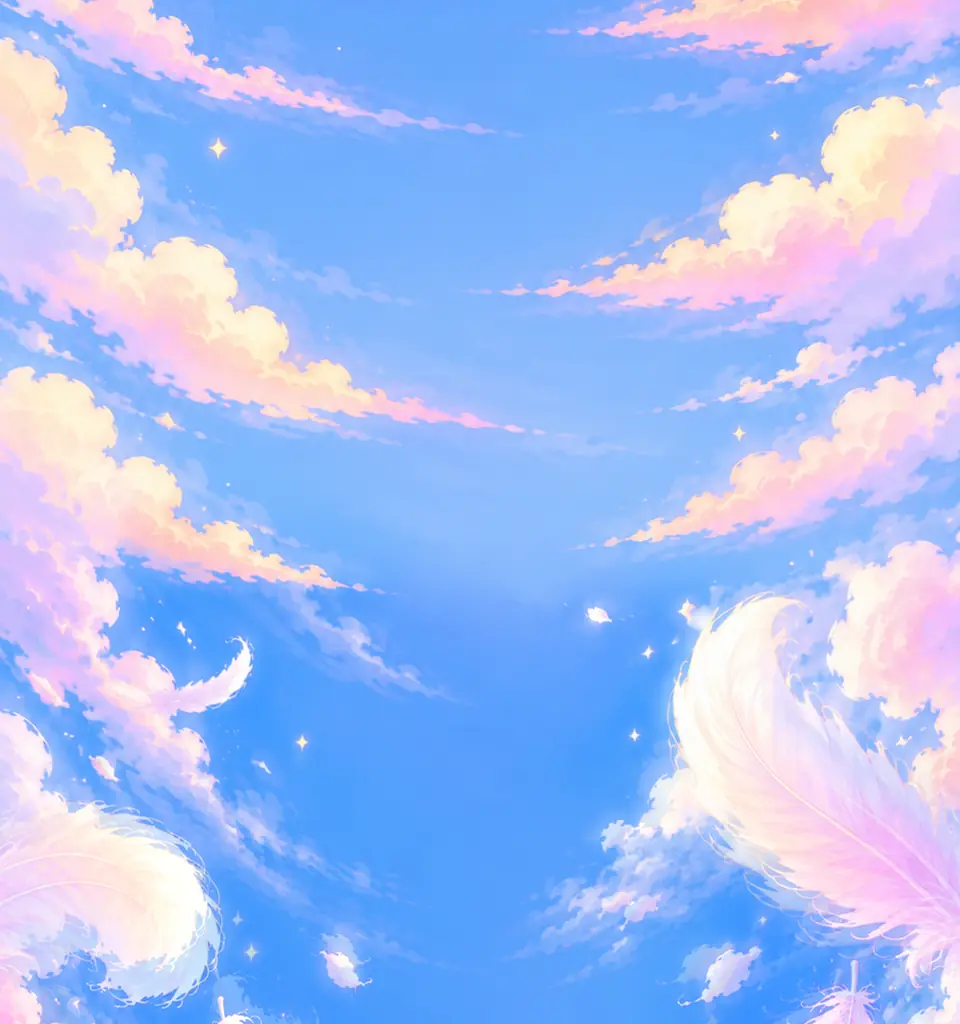
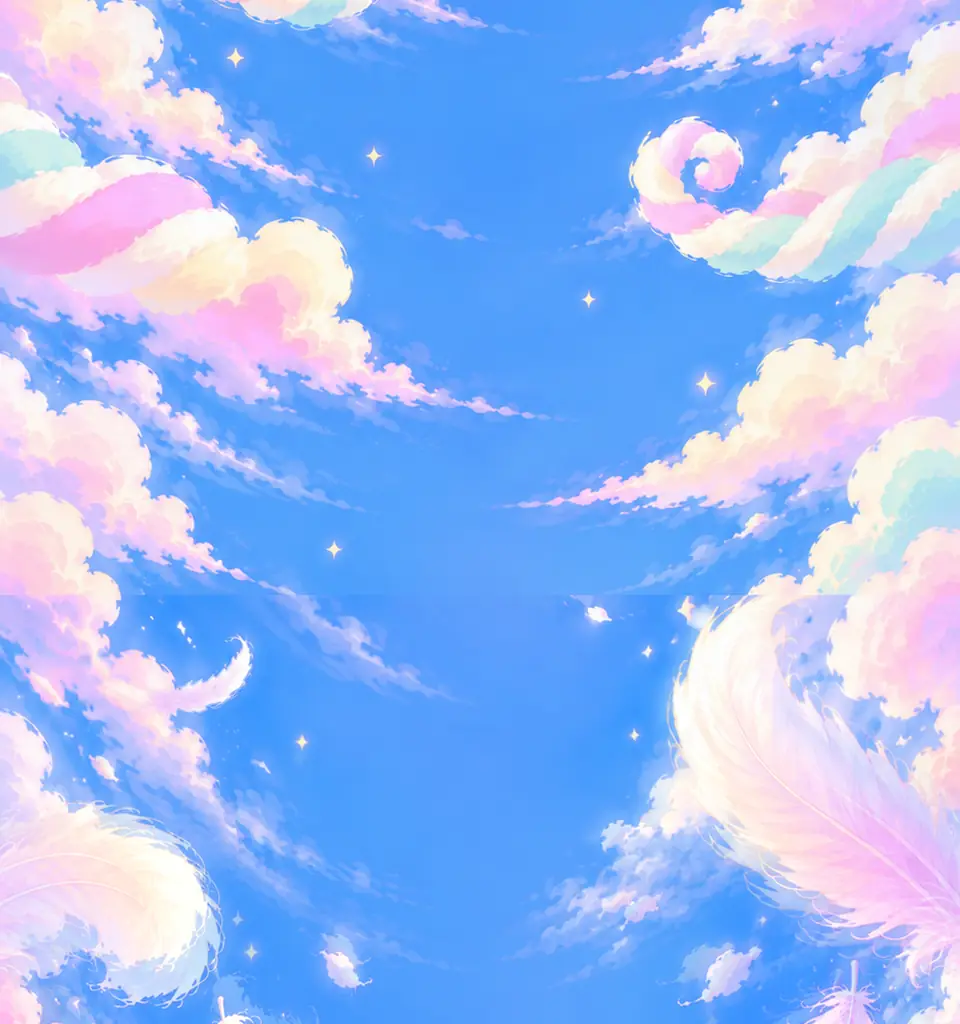
v0.9.196 구름 줄무늬 스테이지 다시 — 사탕 줄무늬 구름·줄무늬 열기구

diff --git a/index.html b/index.html
@@ -2409,7 +2409,7 @@
   const elTitle = document.getElementById("overTitle");
   const coinNote = document.getElementById("coinNote");
 
-  const GAME_VERSION = "v0.9.195";
+  const GAME_VERSION = "v0.9.196";
   /* 제작사 스플래시(bamhobak friends 로고) — 2026-09-20 끔. 다시 켜려면 true */
   const SPLASH_USE = false;   // 코드를 고칠 때마다 뒤 두 자리를 올린다
   document.getElementById("ver").textContent = GAME_VERSION;
@@ -3407,7 +3407,7 @@
   /* v0.9.138 한 장처럼 이어지는 긴 배경 — 꽃밭부터 똥대장네 집까지 스테이지마다 한 칸씩 이어 그린 그림(Codex, tools/gen_long.py)을
      tools/build_long.py 가 아래부터 LONG_CH px 조각(assets/bg/long/cNN.webp)으로 잘라 둔다. 스테이지 k 의 한가운데 시각(k-0.5)에
      화면 가운데가 LONG_ANCH[k-1](아래에서 잰 px)에 오도록 레벨 시계를 따라 쭉 내려온다 — 지대마다 그림을 겹쳐 녹이던 방식은 뺐다. */
-  /*LONG-BEGIN*/ const LONG_H = 23409, LONG_CH = 1024, LONG_N = 23, LONG_V = 18294, LONG_ANCH = [850, 2130, 3410, 4690, 5970, 7250, 8500, 9756, 11036, 12316, 13596, 14876, 16156, 17436, 18716, 19999, 21279, 22559]; /*LONG-END*/
+  /*LONG-BEGIN*/ const LONG_H = 23409, LONG_CH = 1024, LONG_N = 23, LONG_V = 25238, LONG_ANCH = [850, 2130, 3410, 4690, 5970, 7250, 8500, 9756, 11036, 12316, 13596, 14876, 16156, 17436, 18716, 19999, 21279, 22559]; /*LONG-END*/
   const LONG_IMG = [];
   function longLoad(i) {
     if (i < 0 || i >= LONG_N || LONG_IMG[i] !== undefined) return;

diff --git a/tools/gen_long.py b/tools/gen_long.py
@@ -49,8 +49,10 @@ STAGE = {
      "ABSOLUTELY NO lollipops, NO swirl candies, NO hard candies, NO candy canes, NO waterfalls, NO islands.",
   4: "STAGE 'Feather Sky': a brighter, higher sky where giant soft white and pastel FEATHERS float and drift gently "
      "like slow boats, some fluffy downy feathers swirling at the edges, tiny wisps of cloud, a light airy mood.",
-  5: "STAGE 'Cloud Stripes': the sky deepens to a richer blue and the clouds become long neat horizontal STRIPES of "
-     "soft pastel cloud bands (pink, peach, white) stretching in from the edges like ribbons, a few tiny stars begin.",
+  5: "STAGE 'Cloud Stripes' (구름 줄무늬): a whimsical sky where the fluffy clouds are painted with bold cheerful candy STRIPES — "
+     "pink-and-white, mint-and-white and lemon-and-white striped clouds like striped socks and candy canes, some long "
+     "striped cloud ribbons waving in from the sides, and two or three cute striped hot-air balloons (pastel stripes) "
+     "floating at the edges. Bright, playful and clearly different from plain clouds.",
   6: "STAGE 'Sparkle Ripples': high in a deep blue-to-navy sky, shimmering SPARKLY RIPPLE waves of light flow in from "
      "the sides like a gentle glittering sea surface in the air, little twinkling sparkles, first real stars.",
   7: "STAGE 'Aurora Curtain': night sky; big soft flowing AURORA CURTAINS in mint green, pink and violet hang and ripple "

diff --git a/README.md b/README.md
@@ -5,7 +5,7 @@
 👉 **플레이: https://bamhobak.github.io/ddongpi/**
 
 > 이 문서는 `index.html` 의 실제 값을 옮겨 적은 것입니다. 숫자를 고쳤으면 여기도 같이 고쳐 주세요.
-> 마지막으로 맞춰 본 판: **v0.9.195**
+> 마지막으로 맞춰 본 판: **v0.9.196**
 
 ## ⚔ 대전모드 (v0.8.24 한 폰 · v0.8.25 두 폰)
 시작하기를 누르면 **[방 만들기] · [방 참가](방 번호 4자리) · [한 폰으로 둘이서]** 를 고릅니다.
